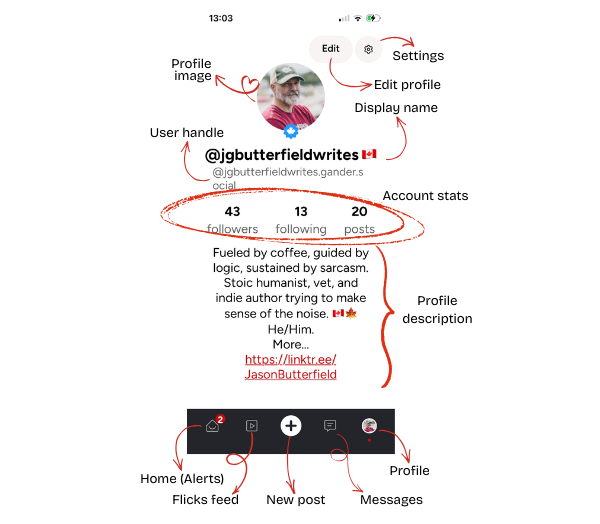
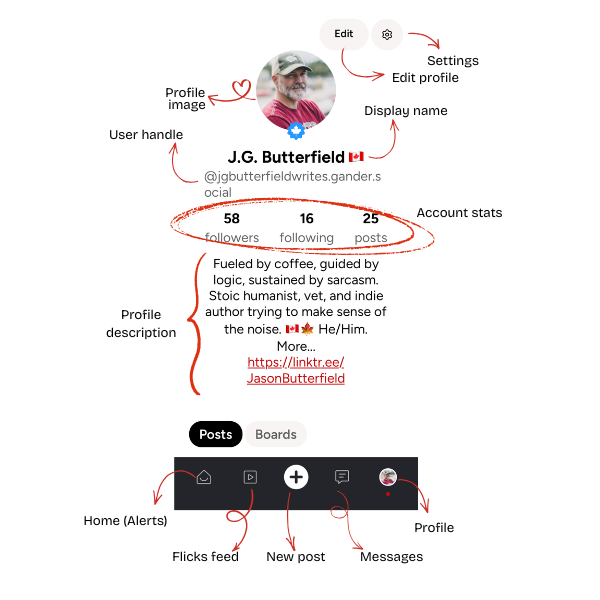
update Settings and Account screens

diff --git a/docs/getting-started.md b/docs/getting-started.md
@@ -1,32 +1,81 @@
-# IDENTITY MANAGEMENT: JOINING THE FORMATION
+# IDENTITY MANAGEMENT
+
+---
 
 !!! danger "UNOFFICIAL INTELLIGENCE"
     This guide is maintained by community volunteers. While we aim for accuracy, always cross-reference with [GanderSocial.ca](https://gandersocial.ca).
 
 ---
 
-## ROTOCOL 01: VISUAL IDENTITY
+## JOINING THE FORMATION
 
-Your profile is your "reconnaissance photo" for the community. Gander Social is currently a closed BETA, and recognizability builds trust faster than anonymity.
+### ROTOCOL 01: VISUAL IDENTITY
+
+Your profile is your digital transponder in the Nest. Understanding these interface markers will help you navigate your own identity and engage with other members of the flock.
 
 ![Profile Interface](images/gander-profile.png)
 
-- **Profile Image:** Use a clear headshot or a clean brand logo if building a creator presence.
-- **Display Name:** This is your readable name, not your handle. You can change this at any time to reflect your evolving voice.
-- **The Bio:** You have up to 4000 characters. Use clear beats to signal your interests and help the right "flock" find you. Hyperlinks and emojis are permitted.
+* **Profile Image:** Your visual signature in the Nest. Use a clear headshot or a clean brand logo if building a creator presence. This appears next to every **Honk** you emit.
+* **Edit Profile:** Use this to update your bio, link your landing pages, or swap your profile image.
+* **Settings (Gear Icon):** Access deep-level account configurations, notifications, and security protocols.
+---
+* **Display Name:** Your human-readable name. Unlike handles, this can include emojis and spaces to reflect your personality. You can change this at any time to reflect your evolving voice.
+* **User Handle:** Your permanent `@address` on the AT Protocol. This is how the flock mentions you in conversation. While you can change it, switching your @handle after building visibility can disrupt how people find and tag you.
+* **Account Stats:** A real-time readout of your **Followers**, those you are **Following**, and your total volume of **Honks (Posts)**.
+* **Profile Description:** Your mission statement. Use this space to define your signal so others know why they should join your formation. You have up to 4000 characters. Use clear beats to signal your interests and help the right "flock" find you. Hyperlinks and emojis are permitted.
 
-## PROTOCOL 02: THE HANDLE (@USERNAME)
+The bottom navigation bar is your primary tool for moving through Gander's sectors:
 
-This is your permanent identifier on the Gander network.
+* **🏠 Home (Alerts):** Your primary dashboard for activity and community alerts.
+* **▶ Flicks Feed:** A dedicated stream for video-first transmissions and short-form visual content.
+* **➕ New Honk (Post):** The central button to initiate a fresh transmission to the Nest.
+* **💬 Messages:** Direct, encrypted communication lines between you and other individuals in the flock.
+* **👤 Profile:** A quick shortcut back to your own command center to view your history and boards.
+
+---
+
+!!! tip "💡 TACTICAL TIP: POSTS VS. BOARDS"
+    Just above the navigation bar, you can toggle between your **Honks (Posts)** and your **Boards**. While Honks are your chronological transmissions, **Boards** are curated folders where you can organize intel by topic for others to explore.
+
+### PROTOCOL 02: THE DISPLAY NAME VS HANDLE (@USERNAME)
+
+In the Nest, your identity is split into two distinct layers. Understanding the difference is key to navigating the AT Protocol.
+
+* **Display Name (The Mask):** This is your human-readable name (e.g., **J.G. Butterfield 🇨🇦**). It is purely cosmetic and can be changed at any time. You can use emojis, spaces, and special characters here to reflect your current mission or personality.
+* **User Handle (The Transponder):** This is your permanent address (e.g., `@jgbutterfieldwrites.gander.social`).
+  * **The Technical Bit:** Because Gander is built on the **AT Protocol**, your handle acts as a unique pointer to your data.
+  * **Portability:** In the future, the AT Protocol allows you to move your "User Handle" and all your data to different servers (instances) without losing your followers or history.
+
+!!! info "Tactical Summary"
+    Your **Display Name** is how the flock sees you; your **Handle** is how the network finds you.
 
 ![Profile Interface](images/edit-gander-profile.png)
 
-- **Consistency:** Keep it consistent with your other platforms if possible.
-- **Permanence:** While you can change it, switching your @handle after building visibility can disrupt how people find and tag you.
+### PROTOCOL 03: SECURITY & RECOVERY
 
-## PROTOCOL 03: SECURITY & RECOVERY
-
-- **The Recovery Anchor:** Ensure your email is current; it is your only way to recover access.
-- **Data Portability:** Under Account Settings, you can find the **"Export my data"** tool. This supports the transparency and portability central to the AT Protocol.
+Managing your transponder settings is critical for maintaining your presence in the Nest. Access these by tapping the **Gear Icon** on your profile.
 
 ![Profile Interface](images/settings-account.png)
+
+### ACCOUNT COMMANDS
+
+Navigate to **Settings → Account settings** to manage your core credentials:
+* **Email Management:** View or update the primary contact address associated with your flock identity.
+* **Username (Handle):** View your current `@handle.gander.social`. *Note: Changing this may affect how others find you on the AT Protocol.*
+* **Password Control:** Initiate a secure reset of your access codes.
+
+### DATA PRIVACY PROTOCOLS
+Gander emphasizes user sovereignty. In the **Data privacy** section, you have full control over your footprint:
+* **Export My Data:** Download a complete archive of your transmissions, media, and social graph.
+* **Deactivate Account:** Temporarily silence your signal. Your data remains on the server but is hidden from the public feed.
+* **Delete Account:** Permanent termination of your identity and deletion of your data from the AT Protocol instance.
+
+### OPERATIONAL OVERSIGHT
+The main Settings menu provides access to further mission-critical sectors:
+* **Moderation:** Configure your content filters and manage blocked signals to keep your feed clean.
+* **Content and Media:** Adjust how the Nest renders images and video to optimize for your current bandwidth.
+* **Get Help / Legal:** Access official briefing documents and report technical "Signal Drift" to the dev team.
+
+!!! danger "MISSION LOGOUT"
+    To safely exit the app, use the **Sign out** command at the bottom of the Settings menu. Ensure you have your credentials saved, as the Nest requires a fresh handshake for every new session.
+

diff --git a/docs/index.md b/docs/index.md
@@ -14,7 +14,7 @@ This is the central repository for all Gander Social operational data (really ju
 
 Gander is currently in a closed beta, which means we aren't just users—we are the "Flock." Our job is to stress-test the Nest and help each other navigate the early days of the app and maybe help the "Flight-crew"(the hard working devs at Gander).
 
-- **Observe & Report:** We are here to find the "Signal Drift." If a feature feels clunky or you find a bug, log it in the Signal Drift tracker. Your feedback directly helps the devs sharpen the platform.
+- **Observe & Report:** We are here to find the "Signal Drift." If a feature feels clunky or you find a bug, log it in the app's "Get Help". Click on the "Question mark" at the top right or, get this, shake your phone. Nice, eh! Your feedback directly helps the devs sharpen the platform.
 - **Define the Culture:** We're the ones starting the "Honks." How we interact now sets the tone for the thousands who will join later. Aim for high signal, low noise.
 - **Build the Guide:** Found a trick that makes the app easier to use? A shortcut for Boards? A better way to tag? Share it. We are building the manual for the next wave of the flock.
 
